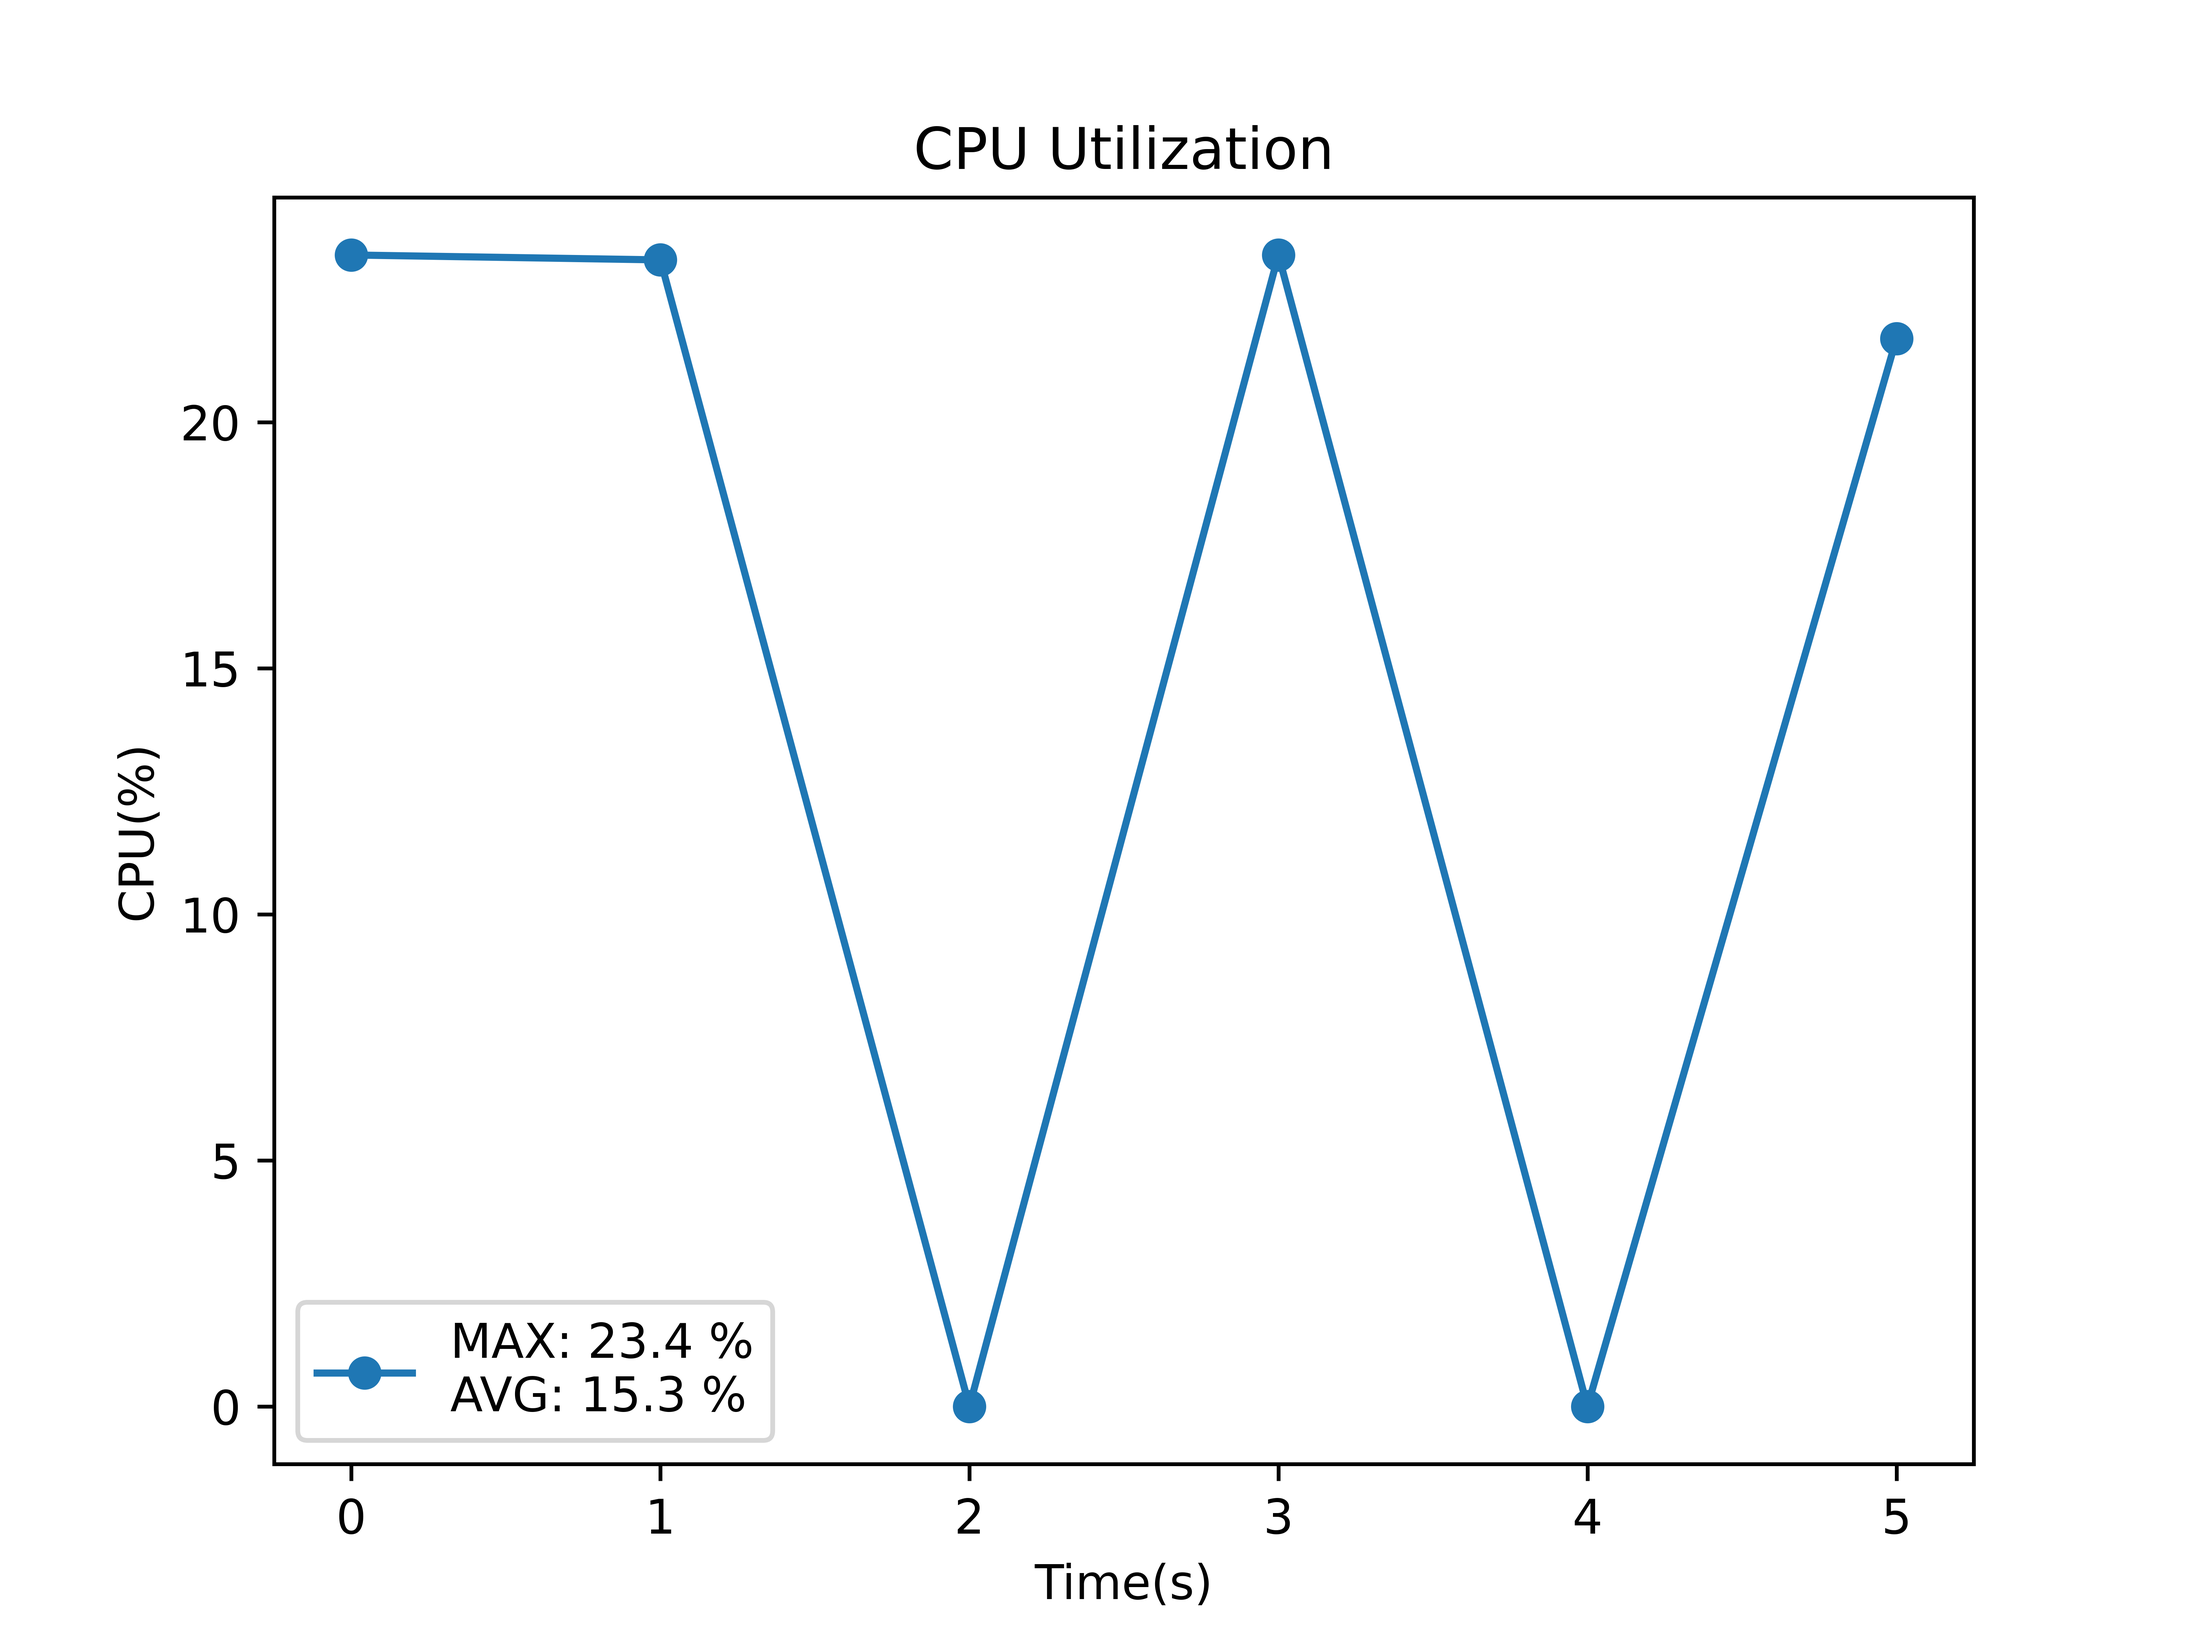
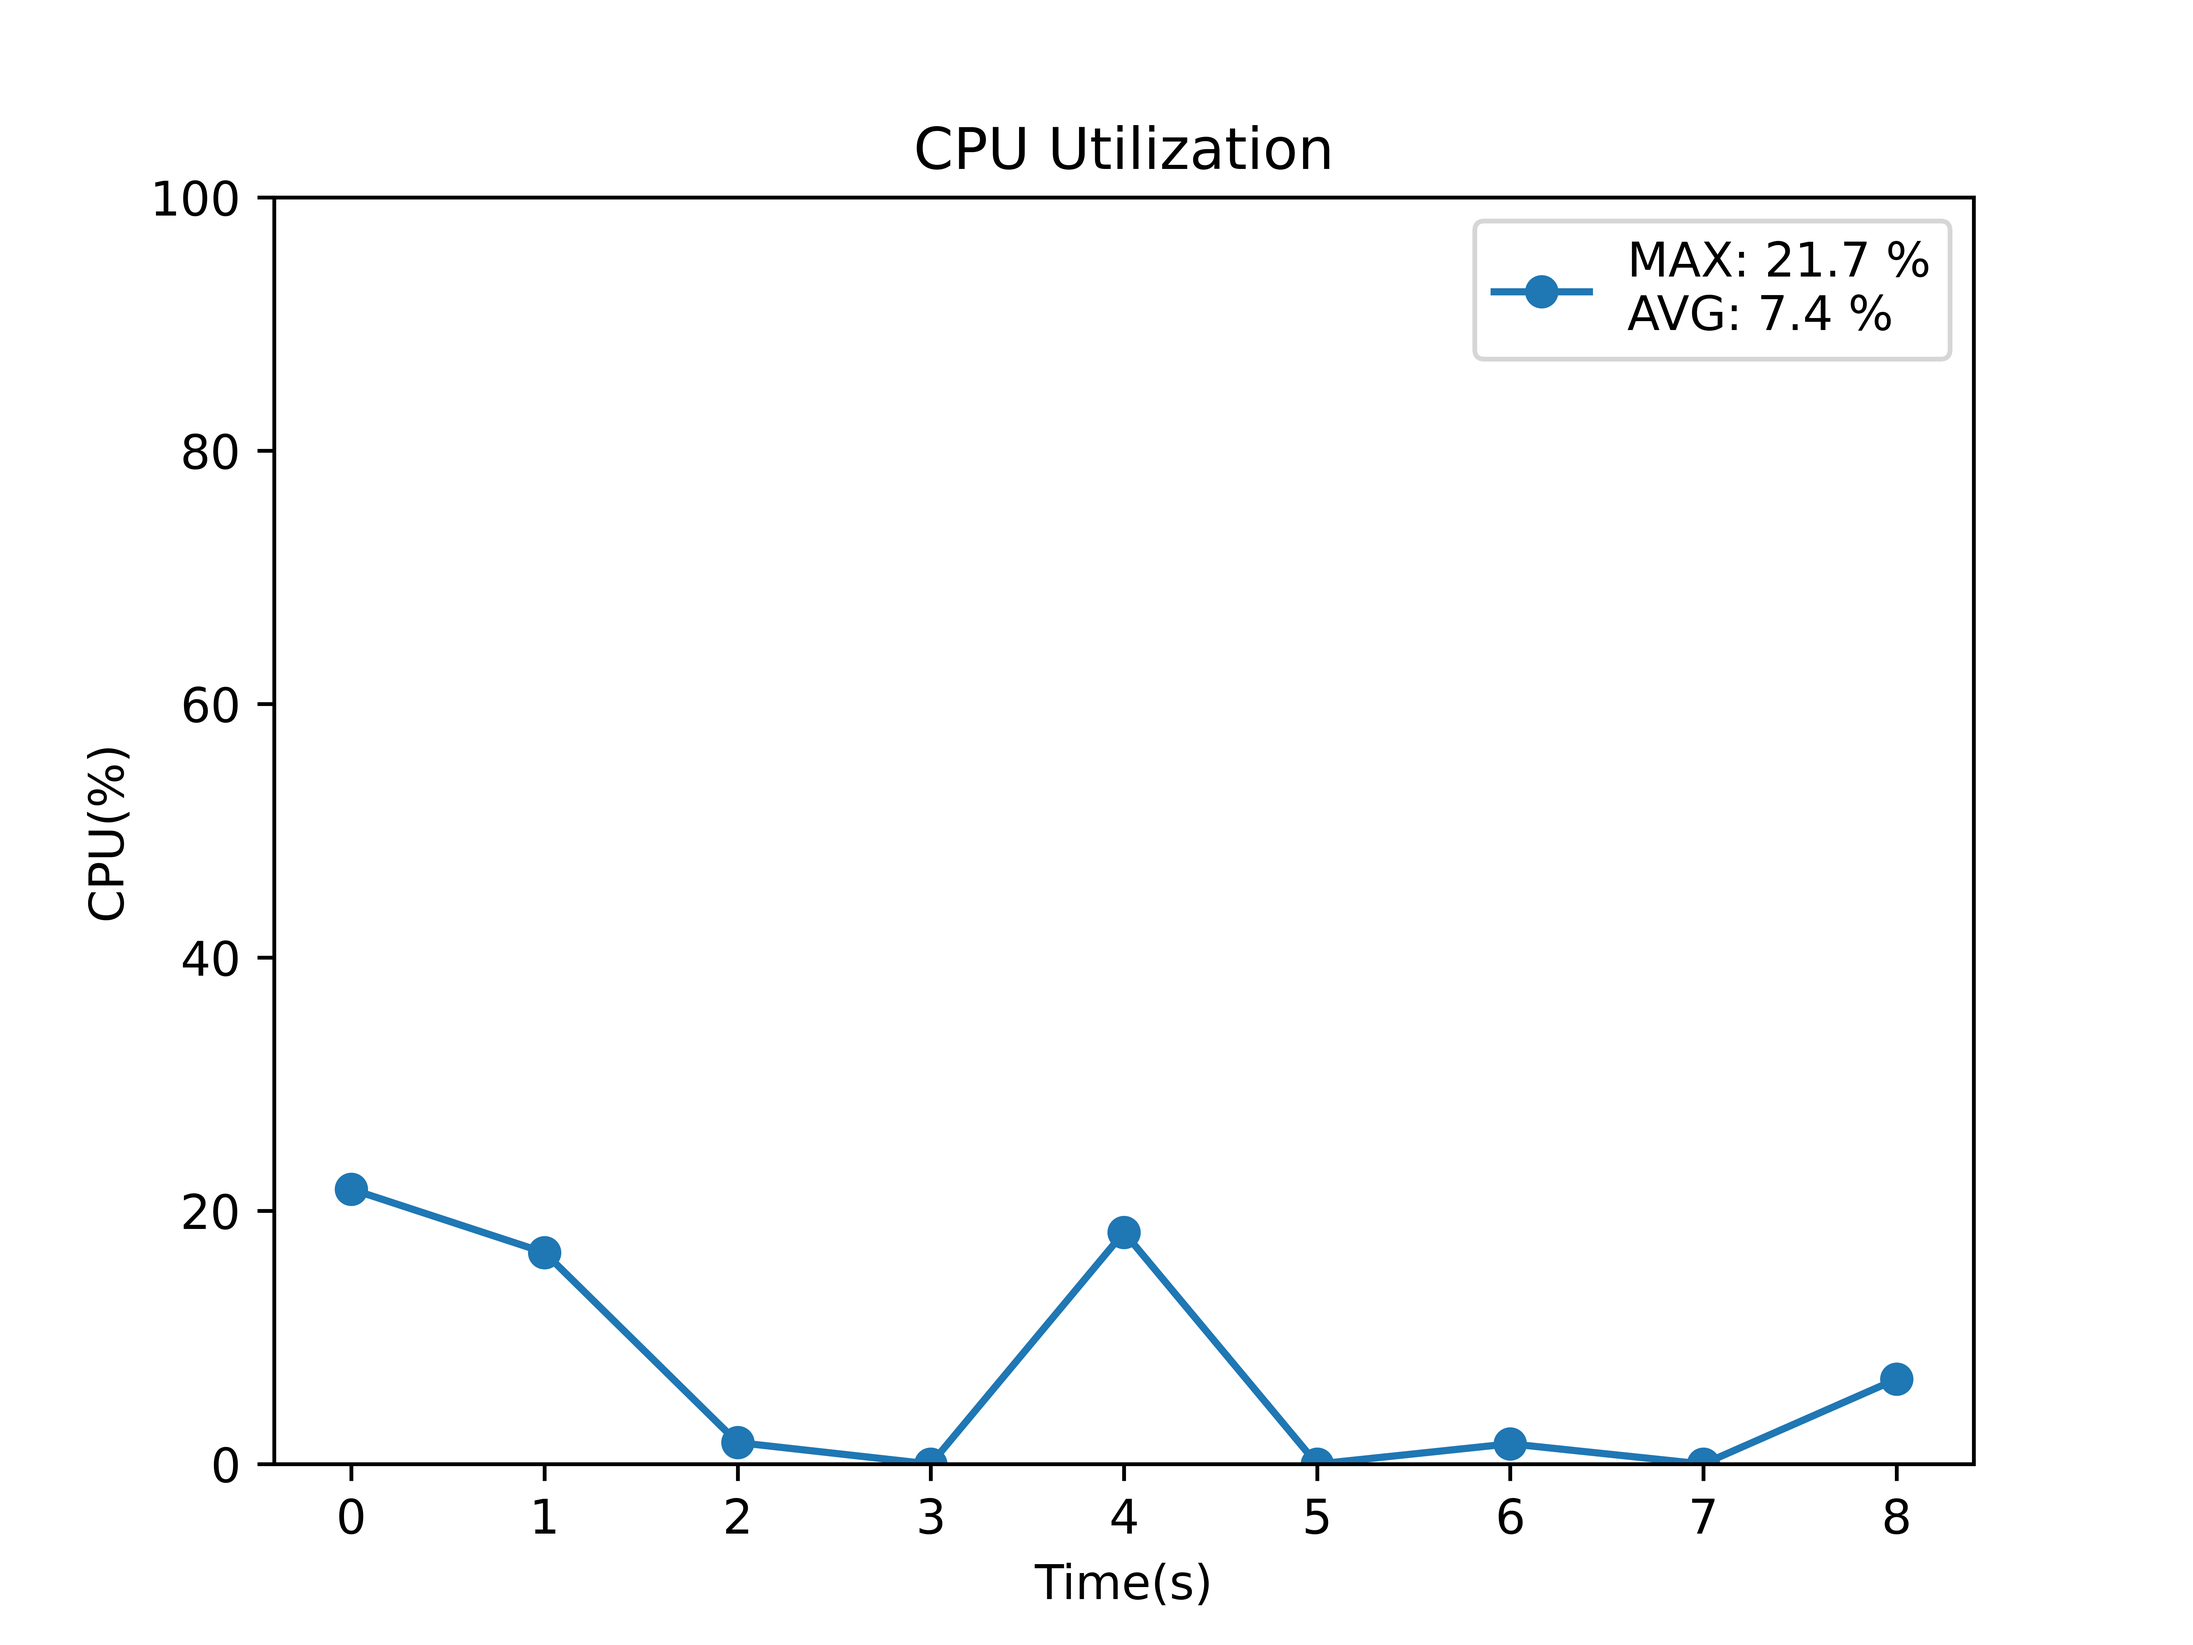
plot scale

diff --git a/sys-monitor/cpu/cpu-util.py b/sys-monitor/cpu/cpu-util.py
@@ -17,6 +17,7 @@ def plot(cpu_load):
     plt.plot(cpu_load, marker='o',
              label=f'MAX: {round(max(cpu_load),1)} %\nAVG: {round(sum(cpu_load)/len(cpu_load),1)} %')
     plt.legend()
+    plt.ylim([0, 100])
 
     file_name = f'./snaps/{sys.argv[1]}-mem.png' if len(
         sys.argv) > 1 else f'./snaps/{os.getpid()}-mem.png'

diff --git a/sys-monitor/memory/mem_util.py b/sys-monitor/memory/mem_util.py
@@ -19,7 +19,7 @@ try:
             mem.append((total_mem*m)/104857600)
         time.sleep(1)
 
-except Exception as e:
+except KeyboardInterrupt as e:
     print('Stopping..')
 
 finally:
